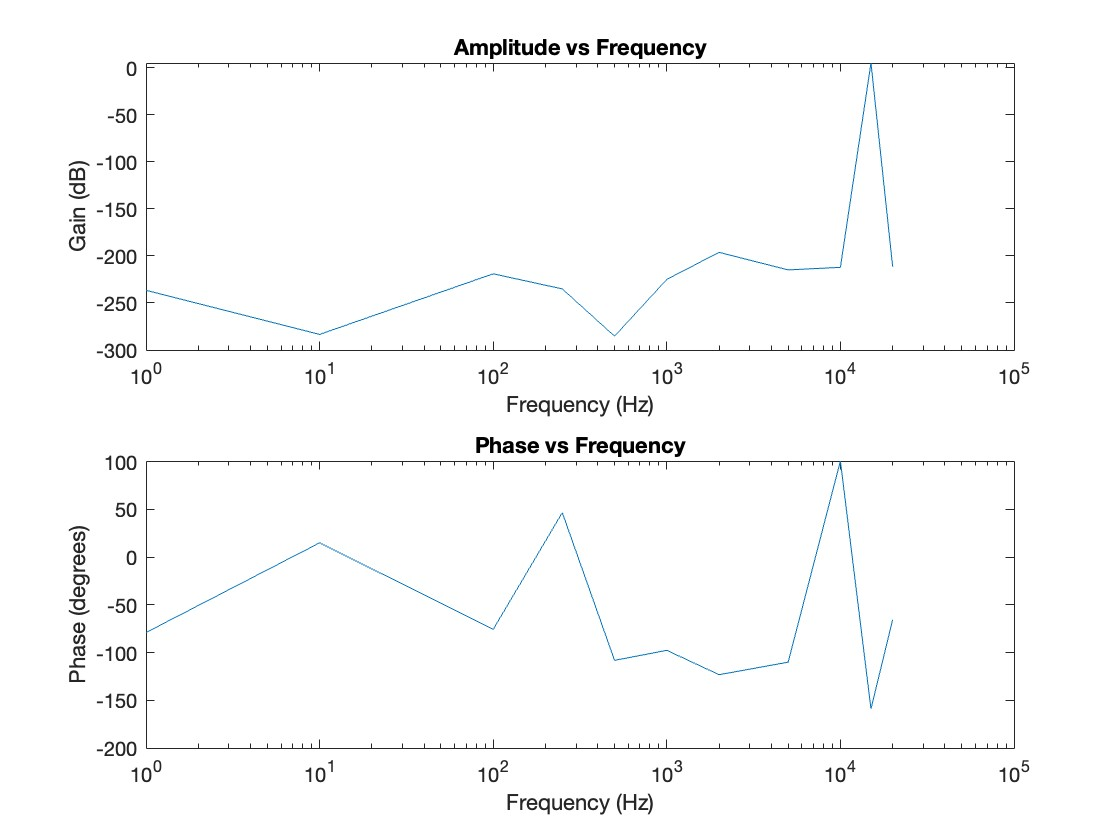
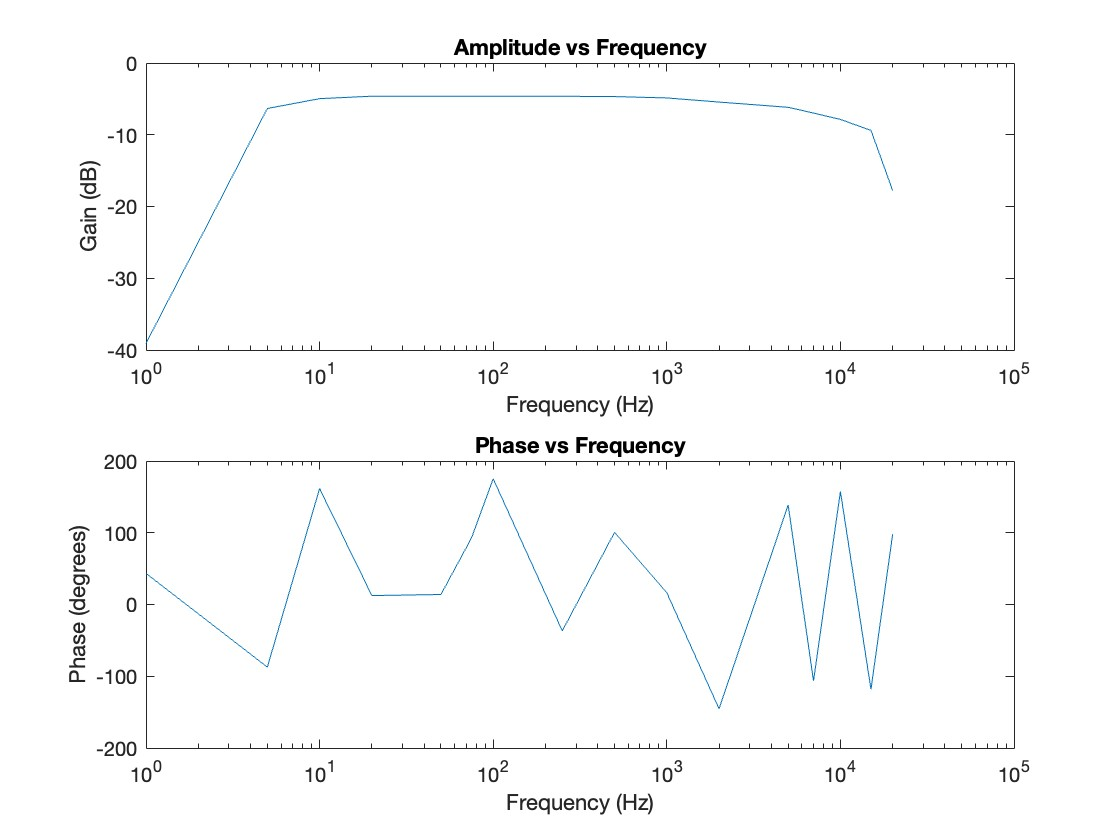
Fixed frequency response; frequency parameter wasn't being passed in

diff --git a/Matlab/frequencyResponse.m b/Matlab/frequencyResponse.m
@@ -1,8 +1,9 @@
-frequencySet = [1, 10, 100, 250, 500, 1e3, 2e3, 5e3, 1e4, 1.5e4, 2e4];
+frequencySet = [1, 5, 10, 20, 50, 75, 100, 250, 500, 1e3, 2e3, 5e3, 7e3, 1e4, 1.5e4, 2e4];
+% frequencySet = [2e3];
 gainSet = zeros(1, length(frequencySet));
 fs = 48e3;
 for i = 1:length(frequencySet)
-[~, output, input] = audioLatencyMeasurementSineApp('SamplesPerFrame',64,'SampleRate',fs, 'Plot', false, 'Frequency', frequencySet(i), 'Device', 'Aggregate Device');
+[~, input, output] = audioLatencyMeasurementSineApp('SamplesPerFrame',64,'SampleRate',fs, 'Plot', false, 'Frequency', frequencySet(i), 'Device', 'Aggregate Device');
 
 N = length(output);
 fin = fft(input);
@@ -11,7 +12,7 @@ fout = fft(output);
 fout = fout(1:N/2+1);
 
 freq = 0:fs/N:fs/2;
-idx = find(freq == i);
+idx = find(freq == frequencySet(i));
 gain = fout(idx)/fin(idx);
 
 gainSet(i) = gain;
